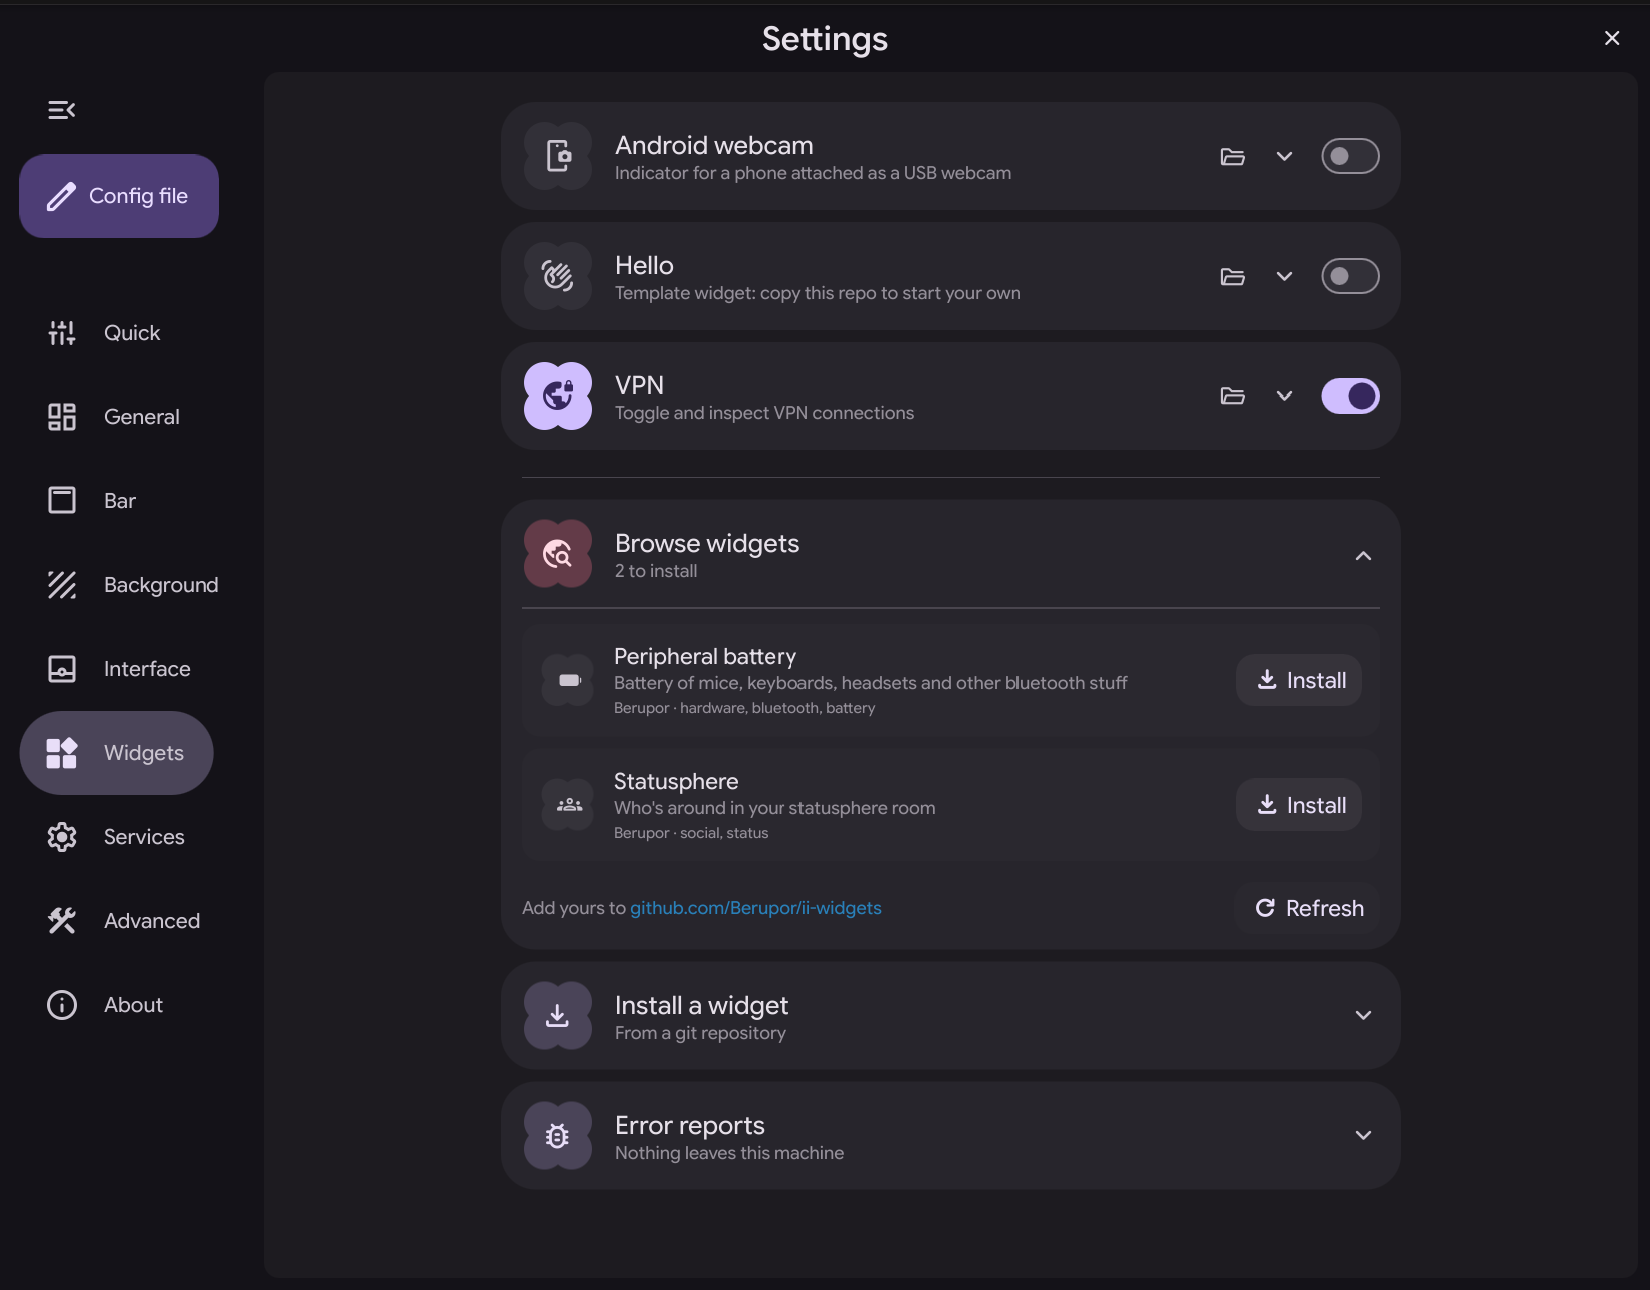
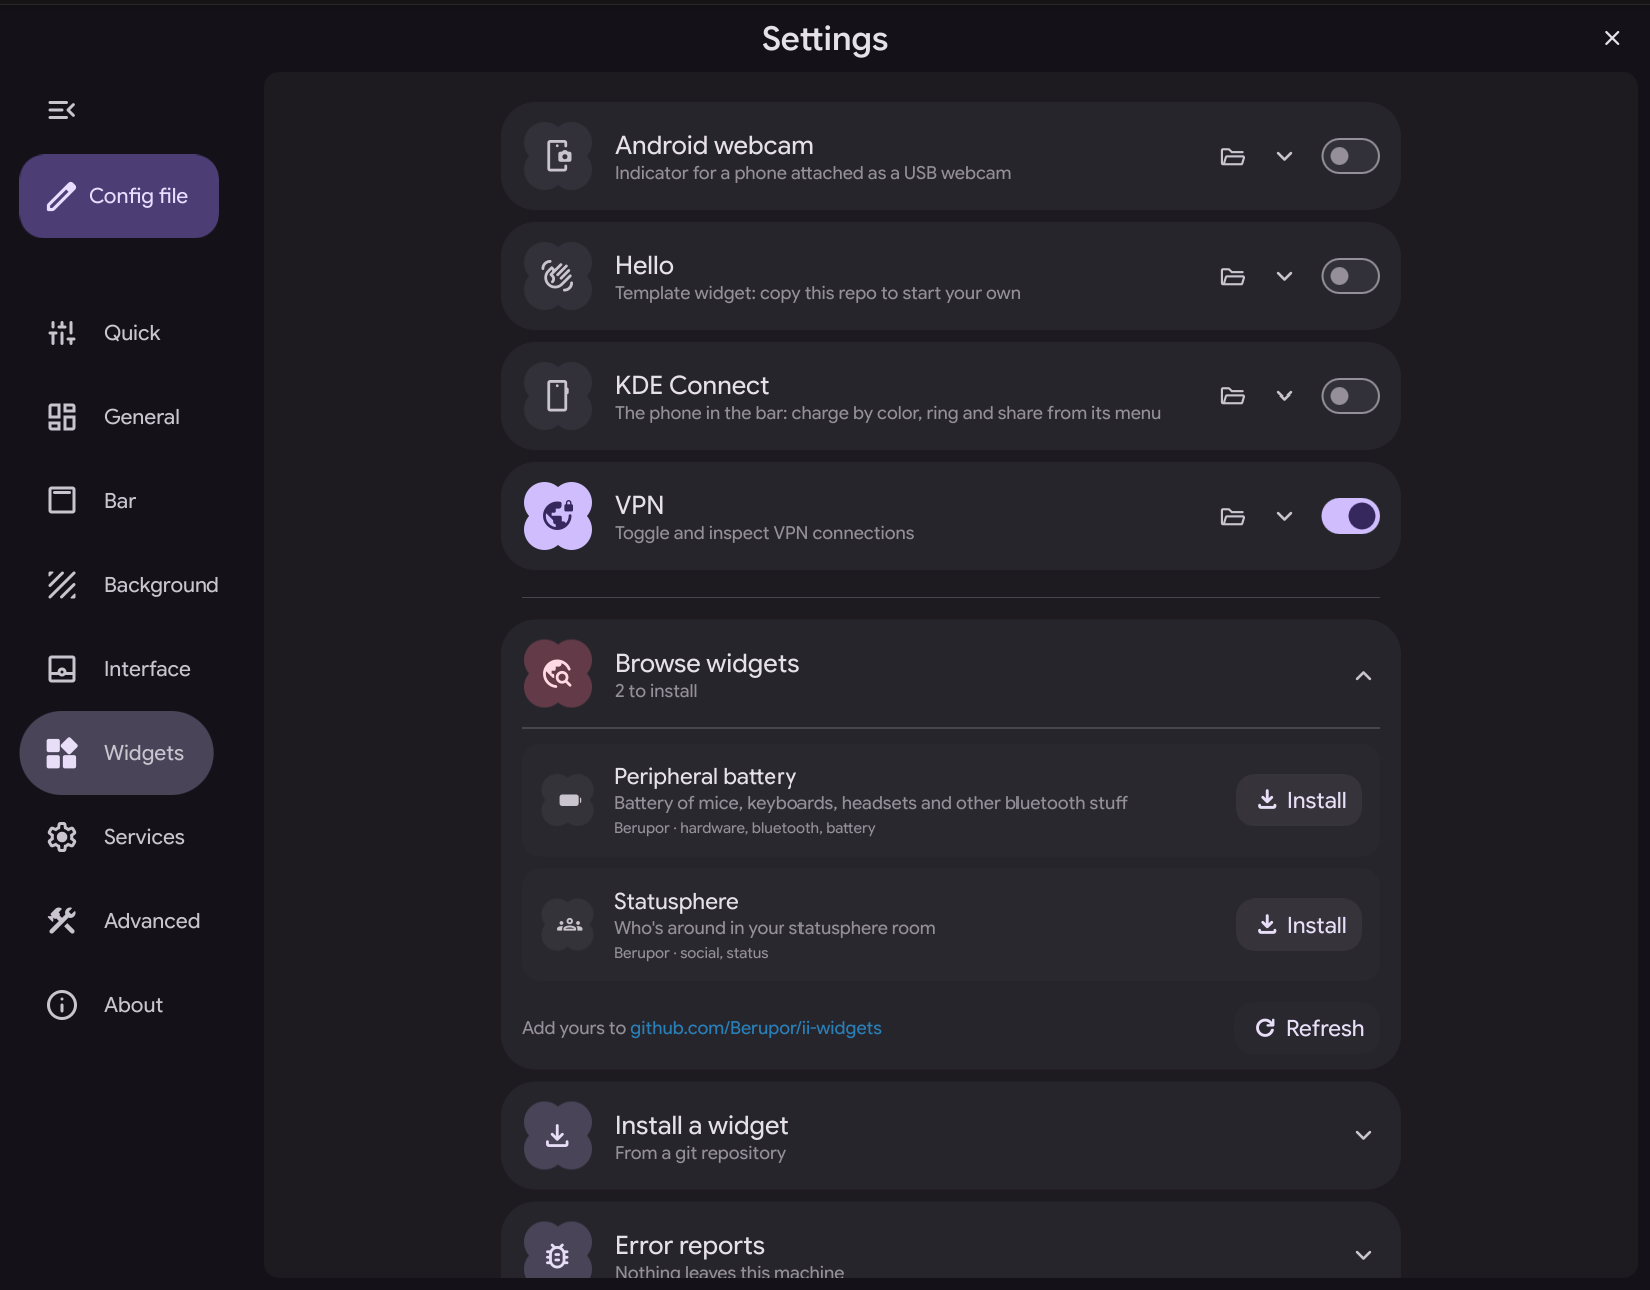
readme: kdeconnect in the widget list, both shots retaken

diff --git a/.github/README.md b/.github/README.md
@@ -66,6 +66,8 @@ Every widget below has its own pictures and options:
   right-sidebar tab.
 - [Android webcam](https://github.com/Berupor/ii-widget-android-webcam): a phone
   plugged in as a USB webcam, and the adb call that puts it in that mode.
+- [KDE Connect](https://github.com/Berupor/ii-widget-kdeconnect): the phone's charge
+  by the color of a bar button, and ring, clipboard and files from its menu.
 - [Statusphere](https://github.com/Berupor/ii-widget-statusphere): a room of
   friends on the desktop, client for
   [statusphere](https://github.com/MAX1T1A/statusphere).
